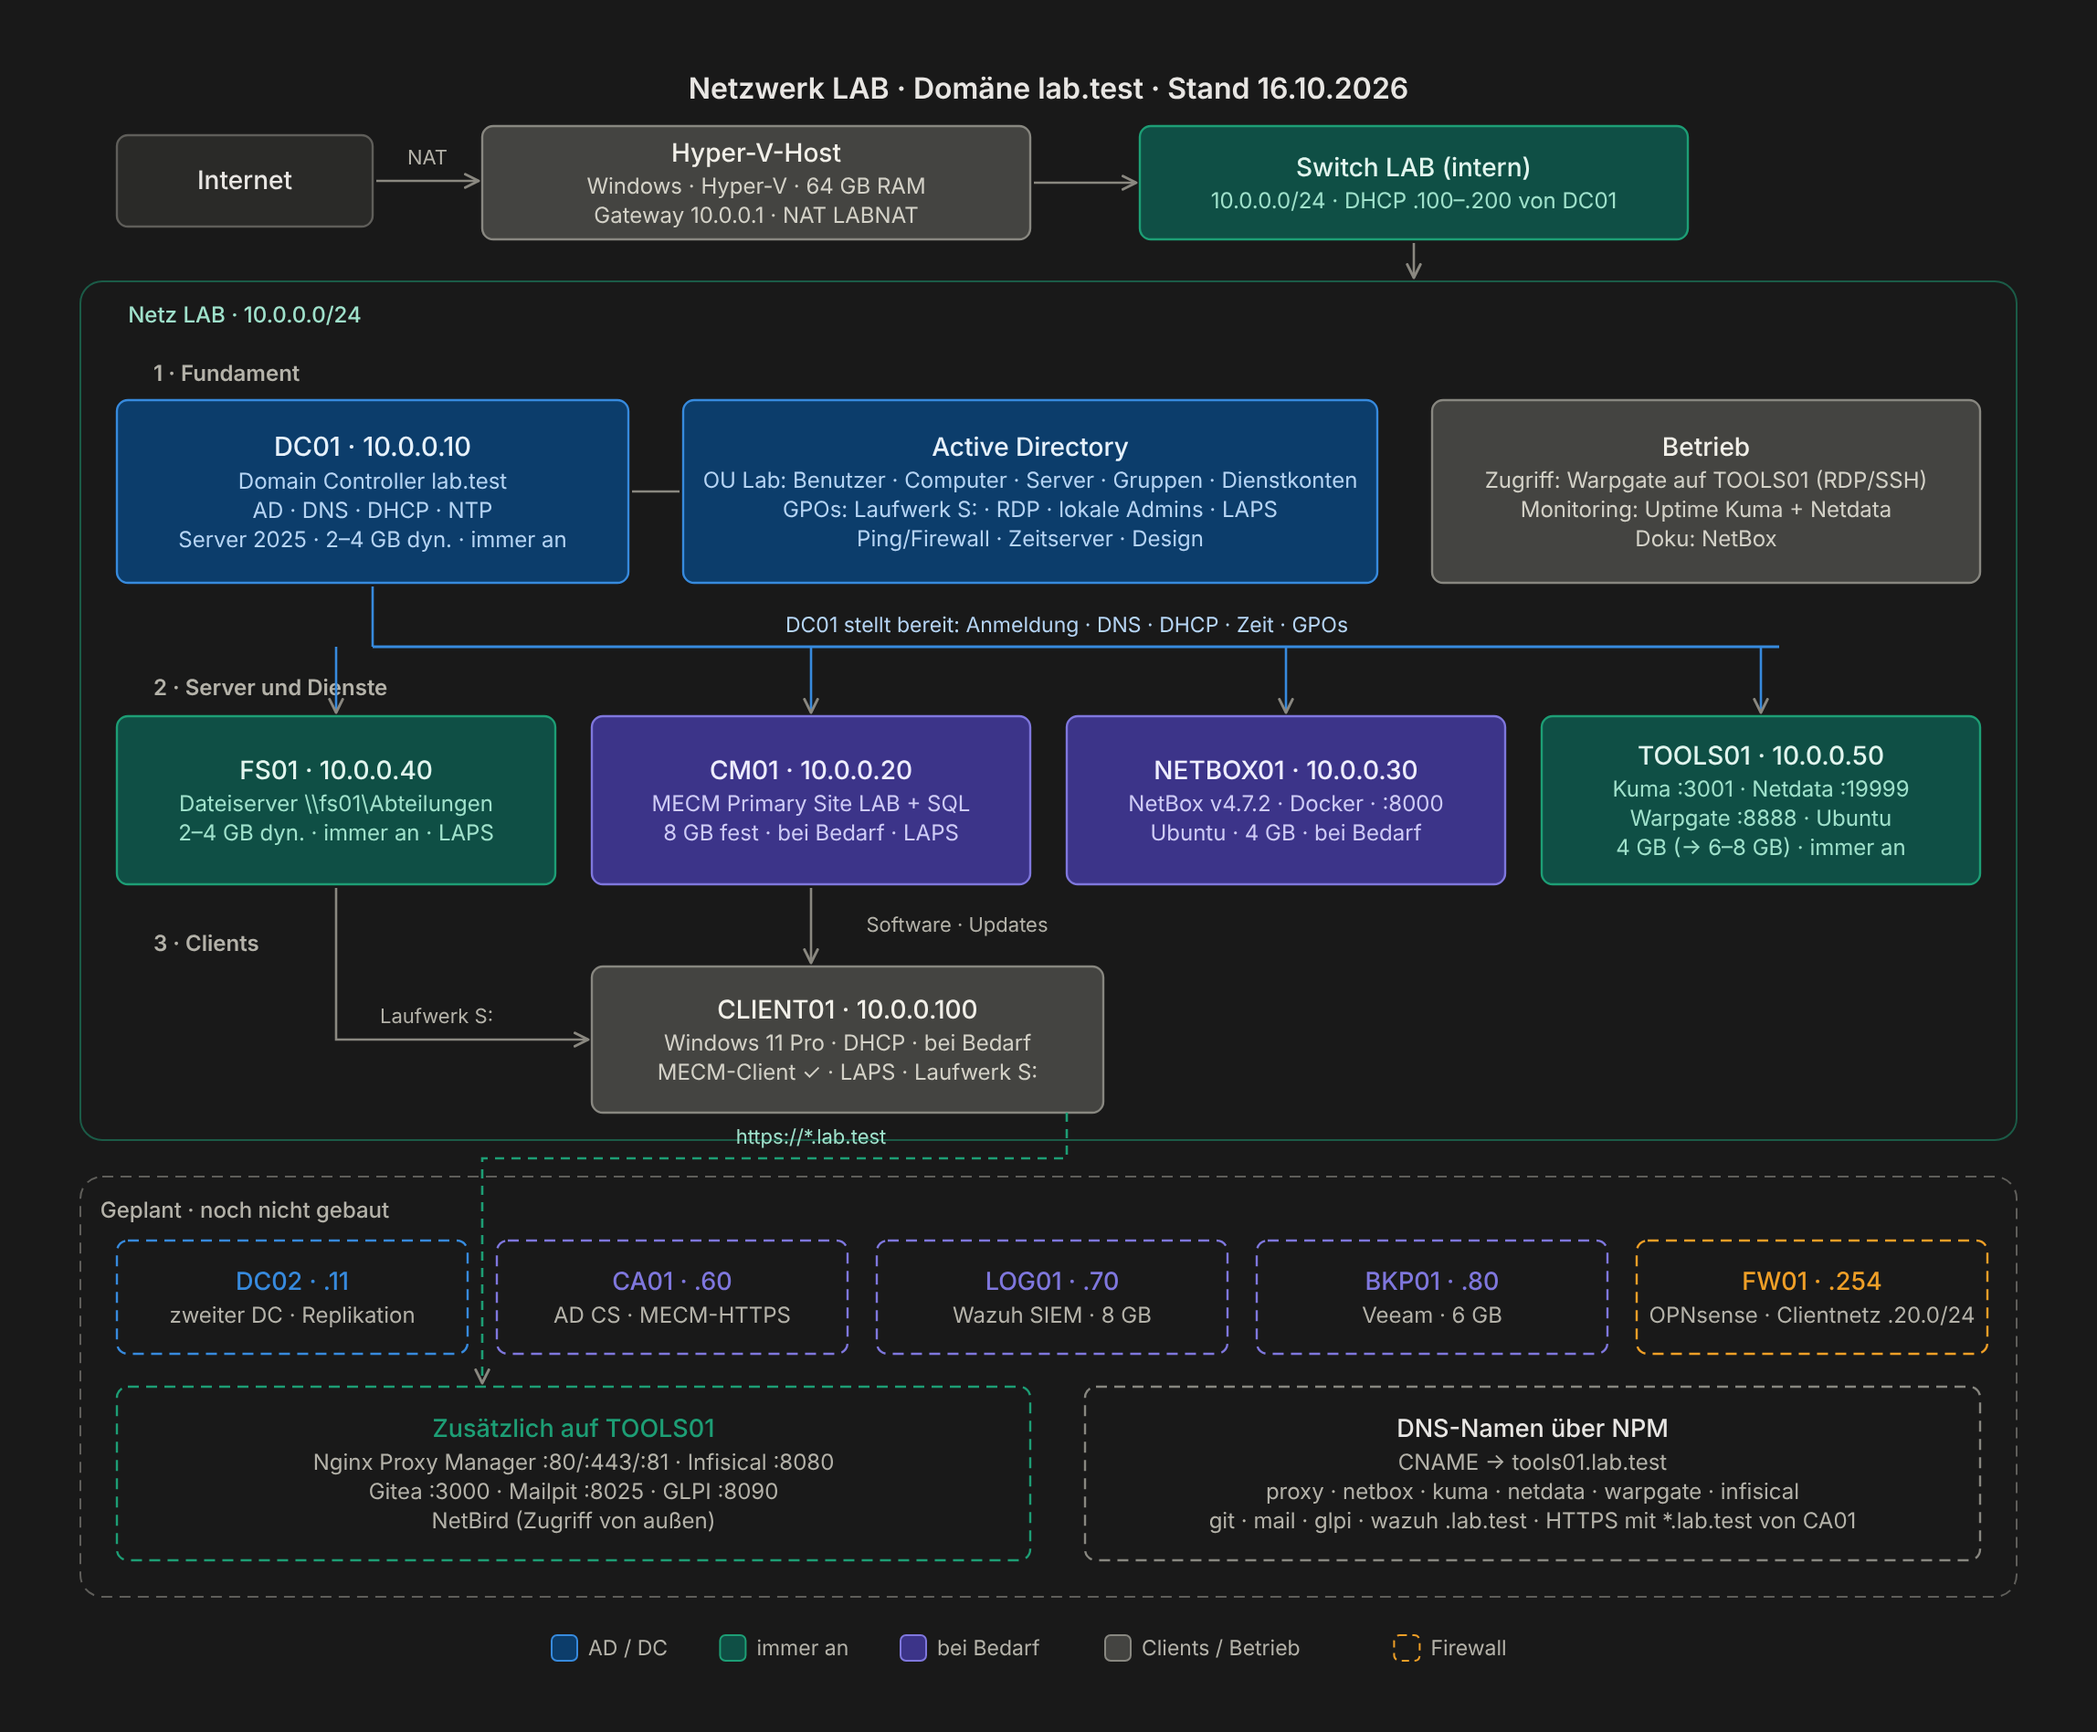
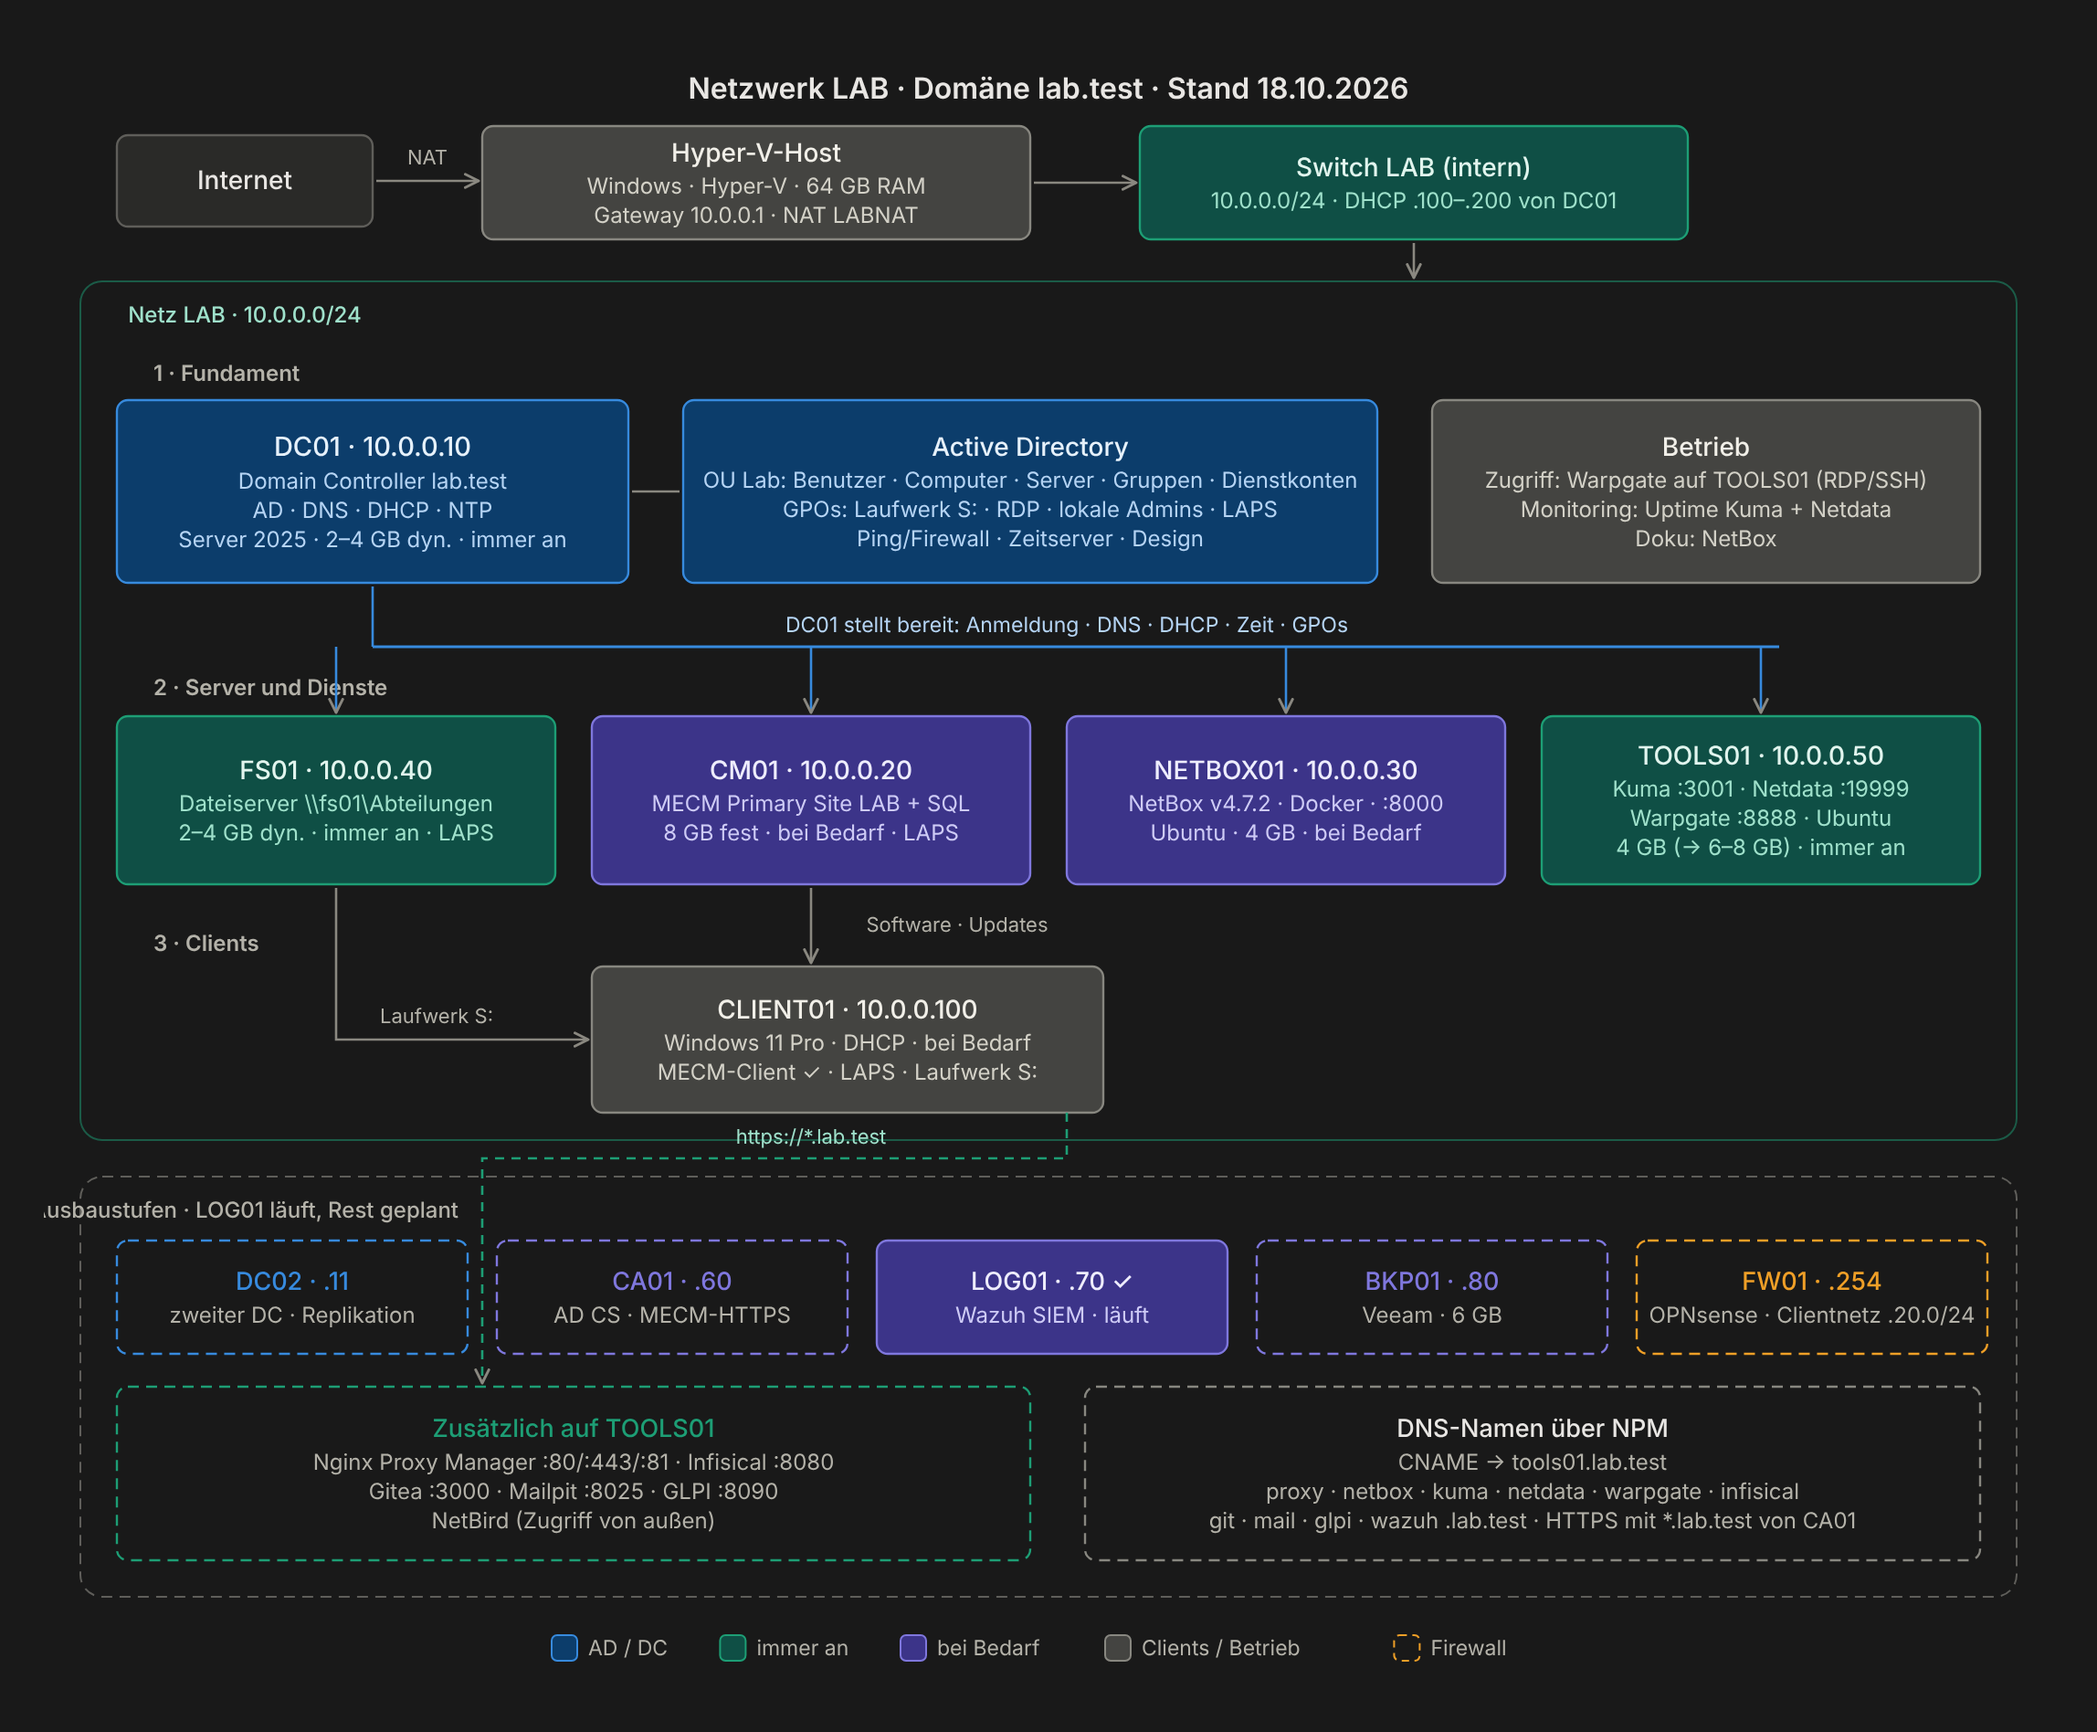
Grafik Wazuh-Ablauf, LOG01 im Netzwerkdiagramm als aktiv
Claude-Session: https://claude.ai/code/session_018WmMqbjGaDQoD5c7WNQPDW

Changed region(s): [[0.402, 0.7157, 0.5875, 0.8091], [0.0309, 0.6846, 0.2165, 0.7157]]

diff --git a/docs/anleitung/13-wazuh.md b/docs/anleitung/13-wazuh.md
@@ -15,6 +15,8 @@ Wazuh ist ein kostenloses **SIEM** (Security Information and Event Management). 
 | **Wazuh-Server** (LOG01) | Nimmt Ereignisse an (Manager), speichert sie (Indexer), zeigt sie an (Dashboard) |
 | **Wazuh-Agent** (jeder Windows-Rechner) | Liest die Windows-Ereignisprotokolle und schickt sie an LOG01 |
 
+![Weg einer Fehlanmeldung bis ins Dashboard](../diagramme/wazuh-ablauf.png)
+
 | Port | Wofür |
 |---|---|
 | 443 | Dashboard im Browser |
